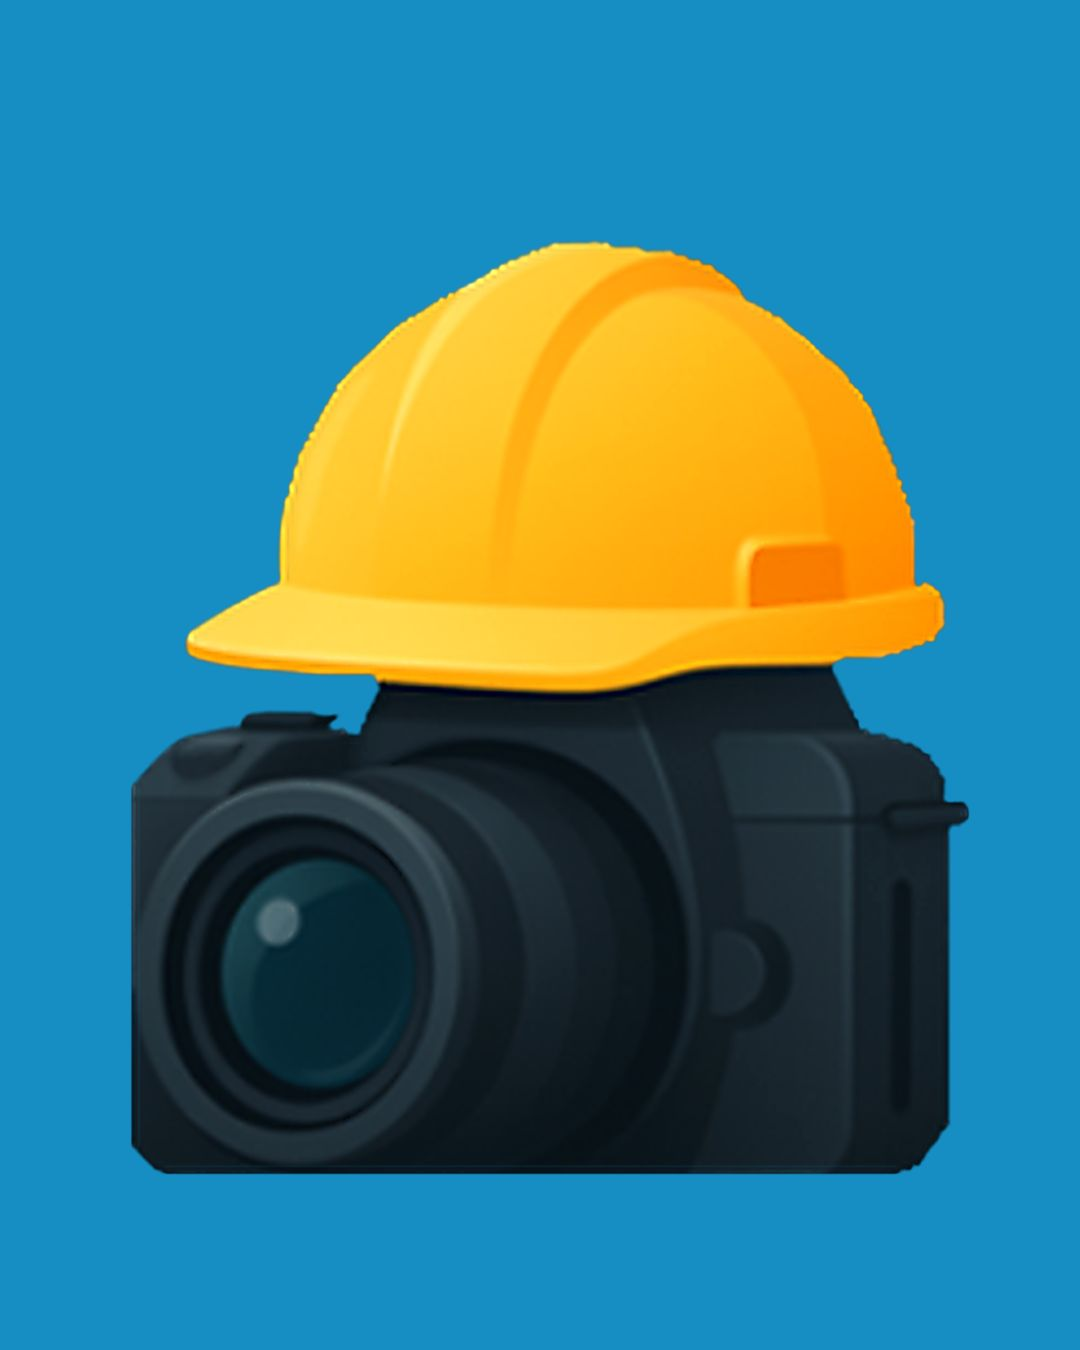
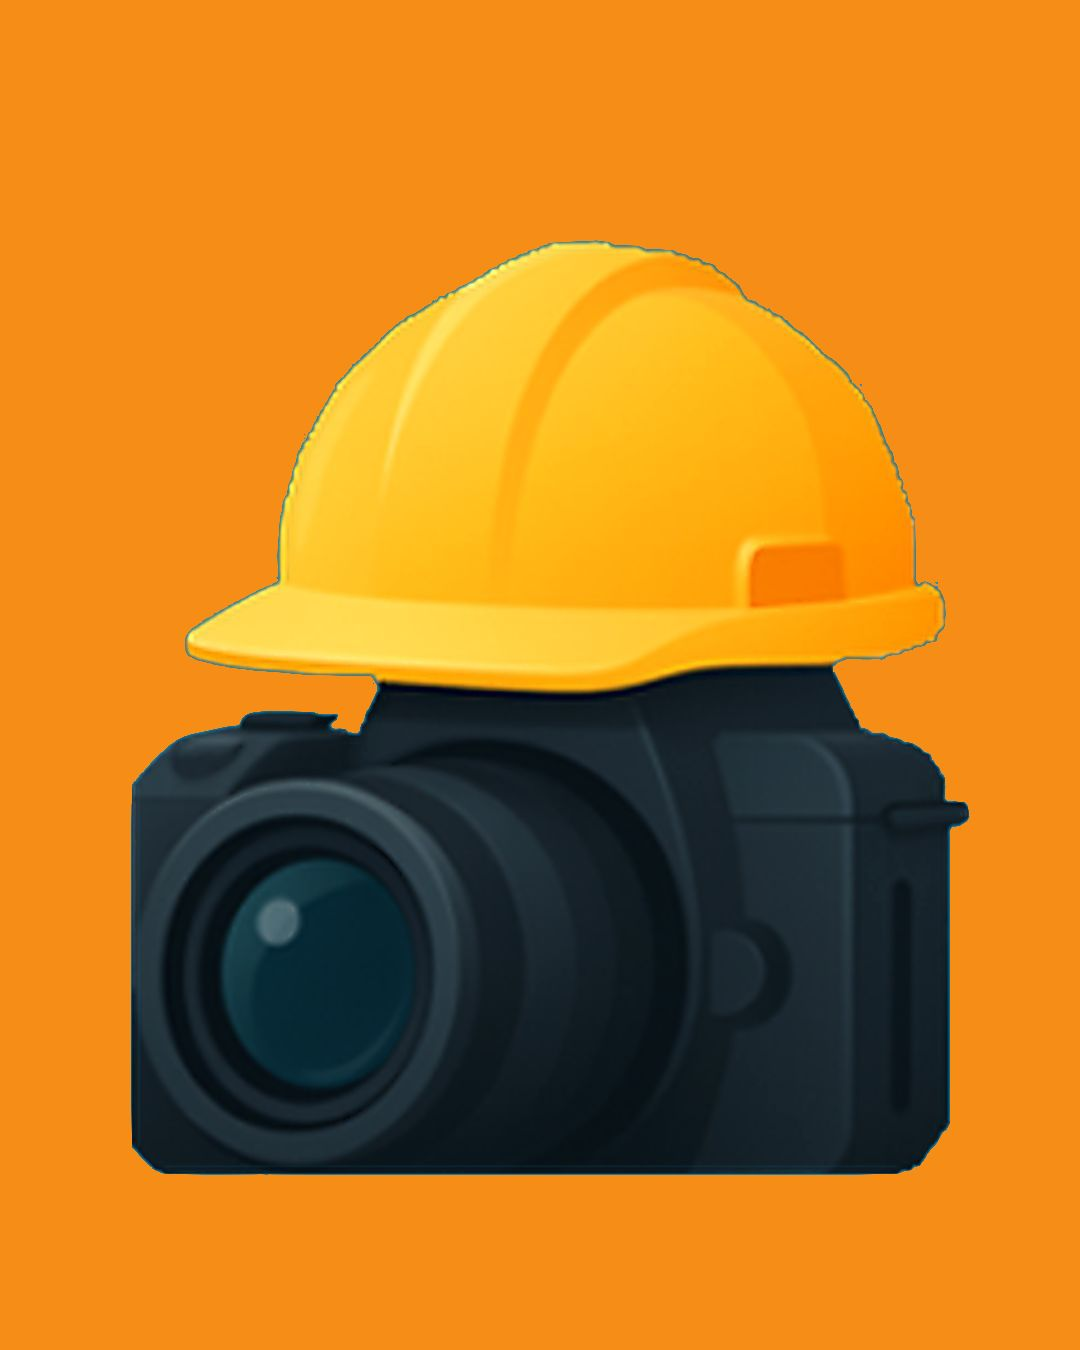
committed

diff --git a/src/app/browse-file-page/browse-file-page.page.ts b/src/app/browse-file-page/browse-file-page.page.ts
@@ -10,12 +10,12 @@ import { App } from '@capacitor/app';
 import { jsPDF } from 'jspdf';
 
 @Component({
-  selector: 'app-session-page',
-  templateUrl: './session-page.page.html',
-  styleUrls: ['./session-page.page.scss'],
+  selector: 'app-browse-file-page',
+  templateUrl: './browse-file-page.page.html',
+  styleUrls: ['./browse-file-page.page.scss'],
   standalone: false
 })
-export class SessionPagePage implements OnInit, OnDestroy {
+export class BrowseFilePagePage implements OnInit, OnDestroy {
   userName: string | null = null;
   firstName: string | null = null;
   lastName: string | null = null;
@@ -226,16 +226,16 @@ private async initialize(): Promise<void> {
   }
 
   // Additional methods can be added here
+
+  /** Navigate to legacy camera page route. */
+  goToHomePage() {
+    this.router.navigate(['/camera-page']);
+    console.log('camera page');
+  }
   
   /** Navigate to enhanced camera page with sessions support. */
   goToCameraPage2() {
     this.router.navigate(['/camera-page2']);
-    console.log('camera page');
-  }
-
-  /** Navigate to enhanced camera page with sessions support. */
-  goToHomePage() {
-    this.router.navigate(['/home-page2']);
     console.log('camera page');
   }
 
@@ -732,7 +732,7 @@ private async initialize(): Promise<void> {
     // No local back subscription: page-level handler will close the overlay when present
   }
 
-  /** Register back button handler for closing overlays and navigating back. */
+  /** Register back button handler for closing overlays only (no app exit). */
   private registerBackButtonHandler() {
     try {
       this.removeBackButtonHandler();
@@ -758,8 +758,8 @@ private async initialize(): Promise<void> {
             return;
           }
           
-          // No overlays open - navigate back to previous page
-          this.navCtrl.back();
+          // No overlays open - allow default back navigation
+          // (navigate back in history or let other handlers process)
         } catch (e) {
           console.warn('[SessionPage] back button handler error', e);
         }

diff --git a/src/app/browse-file-page/browse-file-page.page.scss b/src/app/browse-file-page/browse-file-page.page.scss
@@ -11,15 +11,15 @@
 /* Image above gradient header */
 .home-page-img {
   position: fixed;
-  top: -13%;
+  top: -2.7%;
   left: 0;
   right: 0;
   width: 100%;
   height: 300px;
   z-index: 9; /* below gradient header but above page base */
   object-fit: cover;
-  border-bottom-left-radius: 30%;
-  border-bottom-right-radius: 30%;
+  border-bottom-left-radius: 11%;
+  border-bottom-right-radius: 11%;
   opacity: 0.8; /* soften background image */
 
 }
@@ -27,13 +27,13 @@
 /* Orange gradient header at the top */
 .gradient-header {
   position: fixed;
-  top: -10%;
+  top: 0;
   left: -10%;
   right: 0;
   height: 280px;
   width: 120%;
-  border-bottom-left-radius: 45%;
-  border-bottom-right-radius: 45%;
+  border-bottom-left-radius: 25%;
+  border-bottom-right-radius: 25%;
   background: linear-gradient(to top, #ff8c00, #ffb347);
   z-index: 8; /* slightly above image so gradient is visible */
   box-shadow: 0 4px 12px rgba(255, 149, 0, 0.15);
@@ -407,11 +407,7 @@ ion-content.home-page {
 }
 
 .session-item {
-  // padding: 16px;
-  padding-top: 16px;
-  padding-bottom: 12px;
-  padding-left: 16px;
-  padding-right: 16px;
+  padding: 16px;
   border-radius: 16px;
   background: linear-gradient(135deg, #f5e6d3 0%, #f9f2e8 100%);
   text-align: left;
@@ -502,19 +498,17 @@ ion-content.home-page {
   border-bottom-left-radius: 8px;
   background-color: #fff;
   box-shadow: 0 4px 8px rgba(0, 0, 0, 0.1);
-  height: 515px;
-  width: 96.6%;
+  height: 430px;
   overflow-y: auto;
   position: relative;
-  top: 21%;
-  left: -2.9%;
+  top: 31%;
   gap: 5px;
   z-index: 20;
 }
 
 /* Sessions summary pill */
 .sessions-summary {
-   width: 96.5%;
+   width: 90.8%;
    height: 50px;
   margin: 16px;
   padding: 16px;
@@ -531,8 +525,7 @@ ion-content.home-page {
   justify-content: space-between;
   gap: 8px;
   position: relative;
-  top: 25%;
-  left: -3%;
+  top: 35%;
   z-index: 20;
 
 

diff --git a/src/app/browse-file-page/browse-file-page.page.html b/src/app/browse-file-page/browse-file-page.page.html
@@ -36,24 +36,20 @@
         <ion-icon name="notifications-outline"></ion-icon>
         <span>Notifications</span>
       </li>
-       <li class="menu-item" (click)="goToHomePage()">
-        <ion-icon name="home-outline"></ion-icon>
-        <span>Home</span>
-      </li>
-      <li class="menu-item" (click)="goSessionPage()">
-        <ion-icon name="bookmark-outline"></ion-icon>
-        <span>Show Current Sessions</span>
-      </li>
-    </div>
-    <hr class="menu-divider" />
-    <div class="menu-section">  
-      <li class="menu-item">
-        <ion-icon name="folder-outline"></ion-icon>
-        <span>Files</span>
-      </li>
       <li class="menu-item">
         <ion-icon name="settings-outline"></ion-icon>
         <span>Settings</span>
+      </li>
+    </div>
+    <hr class="menu-divider" />
+    <div class="menu-section">
+      <li class="menu-item">
+        <ion-icon name="bookmark-outline"></ion-icon>
+        <span>Show Current Sessions</span>
+      </li>
+      <li class="menu-item">
+        <ion-icon name="folder-outline"></ion-icon>
+        <span>Files</span>
       </li>
     </div>
     <hr class="menu-divider" />
@@ -135,7 +131,7 @@
       <div class="session-right">
         <div class="session-time">{{ s.created | date:'shortTime' }}</div>
         <button class="delete-btn" (click)="deleteSession(s, $event)">
-          <img src="assets/trashIcon.png" alt="Delete" style="width: 28px; height: 28px; object-fit: contain;" />
+          <img src="assets/trashIcon.png" alt="Delete" style="width: 24px; height: 24px; object-fit: contain;" />
         </button>
       </div>
     </div>

diff --git a/src/app/home-page2/home-page2.page.html b/src/app/home-page2/home-page2.page.html
@@ -36,20 +36,24 @@
         <ion-icon name="notifications-outline"></ion-icon>
         <span>Notifications</span>
       </li>
-      <li class="menu-item">
-        <ion-icon name="settings-outline"></ion-icon>
-        <span>Settings</span>
+      <li class="menu-item" (click)="goToHomePage()">
+        <ion-icon name="home-outline"></ion-icon>
+        <span>Home</span>
       </li>
-    </div>
-    <hr class="menu-divider" />
-    <div class="menu-section">
-      <li class="menu-item">
+      <li class="menu-item" (click)="goSessionPage()">
         <ion-icon name="bookmark-outline"></ion-icon>
         <span>Show Current Sessions</span>
       </li>
+    </div>
+    <hr class="menu-divider" />
+    <div class="menu-section">     
       <li class="menu-item">
         <ion-icon name="folder-outline"></ion-icon>
         <span>Files</span>
+      </li>
+      <li class="menu-item">
+        <ion-icon name="settings-outline"></ion-icon>
+        <span>Settings</span>
       </li>
     </div>
     <hr class="menu-divider" />
@@ -107,7 +111,7 @@
         </div>
         <div class="explore-label">Browse Files</div>
       </div>
-      <div class="explore-card">
+      <div class="explore-card" (click)="goSessionPage()">
         <div class="explore-icon" aria-hidden="true">
           <img src="assets/updatedSession.png" alt="Camera" />
         </div>

diff --git a/src/app/feedback-page/feedback-page.page.scss b/src/app/feedback-page/feedback-page.page.scss
@@ -227,7 +227,7 @@
   border-radius: 7.5%;
   transition: height 0.3s ease;
   box-sizing: border-box;
-  width: 100%;
+  width: 110%;
 
   &.shrink {
     height: 200px; /* Shrinks when scrolling */
@@ -325,7 +325,7 @@
   display: grid;
   grid-template-columns: 1fr 1fr;
   gap: 12px;
-  margin-top: 16px;
+  margin-top: 7px;
 }
 
 .button-group .sign-in-button {
@@ -441,9 +441,12 @@
 // }
 
 .image-item.selected {
-  border: 3px solid #f09819;
+  // border: 3px solid #f9a52e;
   transform: scale(1.08);
-  box-shadow: 0 6px 20px #c97f17;
+  // box-shadow: 0 6px 20px #d49844;
+
+  border: 2px solid #f97316;
+  box-shadow: 0 19px 38px -6.333333333333333px rgba(249, 115, 22, 0.51);
 }
 
 .selector-arrow {
@@ -469,7 +472,7 @@
 /* wrapper to position a left-side delete button while keeping the title centered */
 .image-title-wrapper {
   position: relative;
-  margin-top: 25px; /* preserve the original visual spacing of .image-title */
+  margin-top: 14px; /* preserve the original visual spacing of .image-title */
   padding-bottom: 10px;
   display: flex;
   align-items: center;

diff --git a/src/app/browse-file-page/browse-file-page.module.ts b/src/app/browse-file-page/browse-file-page.module.ts
@@ -1,0 +1,20 @@
+import { NgModule } from '@angular/core';
+import { CommonModule } from '@angular/common';
+import { FormsModule } from '@angular/forms';
+
+import { IonicModule } from '@ionic/angular';
+
+import { BrowseFilePagePageRoutingModule } from './browse-file-page-routing.module';
+
+import { BrowseFilePagePage } from './browse-file-page.page';
+
+@NgModule({
+  imports: [
+    CommonModule,
+    FormsModule,
+    IonicModule,
+    BrowseFilePagePageRoutingModule
+  ],
+  declarations: [BrowseFilePagePage]
+})
+export class BrowseFilePagePageModule {}

diff --git a/src/app/browse-file-page/browse-file-page.page.spec.ts b/src/app/browse-file-page/browse-file-page.page.spec.ts
@@ -1,0 +1,17 @@
+import { ComponentFixture, TestBed } from '@angular/core/testing';
+import { BrowseFilePagePage } from './browse-file-page.page';
+
+describe('BrowseFilePagePage', () => {
+  let component: BrowseFilePagePage;
+  let fixture: ComponentFixture<BrowseFilePagePage>;
+
+  beforeEach(() => {
+    fixture = TestBed.createComponent(BrowseFilePagePage);
+    component = fixture.componentInstance;
+    fixture.detectChanges();
+  });
+
+  it('should create', () => {
+    expect(component).toBeTruthy();
+  });
+});

diff --git a/src/app/registration-page/registration-page.page.ts b/src/app/registration-page/registration-page.page.ts
@@ -30,6 +30,7 @@ rememberMe: boolean = false;
 showPassword: boolean = false;
 username: string = '';
 firstName: string = '';
+userID: string = '';
 lastName: string = '';
 selectedRole: string | null = null;
 error = '';
@@ -155,6 +156,7 @@ async onRegister() {
           lastName: lastName ?? '',
           engineeringID: engineeringID ?? '',
           email: email ?? '',
+          // userID: uid ?? '',
           role: this.selectedRole ?? 'user',
           created: new Date()
         });

diff --git a/src/app/login-page/login-page.page.html b/src/app/login-page/login-page.page.html
@@ -61,7 +61,8 @@
     <a class="forgot-password" href="#">Forgot Password?</a>
   </div>
 
-  <button class="sign-in-button" (click)="login()">Sign in</button>
+  <!-- <button class="sign-in-button" (click)="login()">Sign in</button> -->
+  <button class="sign-in-button" (click)="goToHomePage2()">Sign in</button>
   <!-- <button class="sign-in-button" (click)="goToHomePage()">HomePage</button>
   <button class="sign-in-button" (click)="goToHomePage2()">HomePage2</button> -->
 </div>

diff --git a/src/app/browse-file-page/browse-file-page-routing.module.ts b/src/app/browse-file-page/browse-file-page-routing.module.ts
@@ -1,0 +1,17 @@
+import { NgModule } from '@angular/core';
+import { Routes, RouterModule } from '@angular/router';
+
+import { BrowseFilePagePage } from './browse-file-page.page';
+
+const routes: Routes = [
+  {
+    path: '',
+    component: BrowseFilePagePage
+  }
+];
+
+@NgModule({
+  imports: [RouterModule.forChild(routes)],
+  exports: [RouterModule],
+})
+export class BrowseFilePagePageRoutingModule {}

diff --git a/src/app/app-routing.module.ts b/src/app/app-routing.module.ts
@@ -92,6 +92,10 @@ const routes: Routes = [
     path: 'home-page2',
     loadChildren: () => import('./home-page2/home-page2.module').then( m => m.HomePage2PageModule)
   },
+  {
+    path: 'browse-file-page',
+    loadChildren: () => import('./browse-file-page/browse-file-page.module').then( m => m.BrowseFilePagePageModule)
+  },
 
 
 

diff --git a/src/app/home-page2/home-page2.page.ts b/src/app/home-page2/home-page2.page.ts
@@ -223,7 +223,7 @@ private async initialize(): Promise<void> {
 
   /** Navigate to legacy camera page route. */
   goToHomePage() {
-    this.router.navigate(['/camera-page']);
+    this.router.navigate(['/home-page2']);
     console.log('camera page');
   }
   
